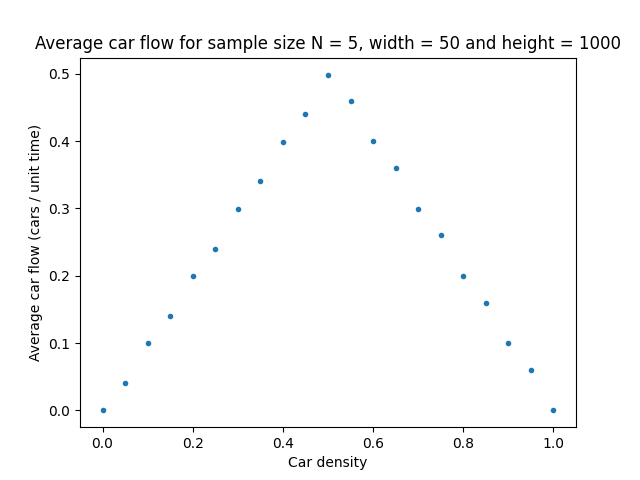
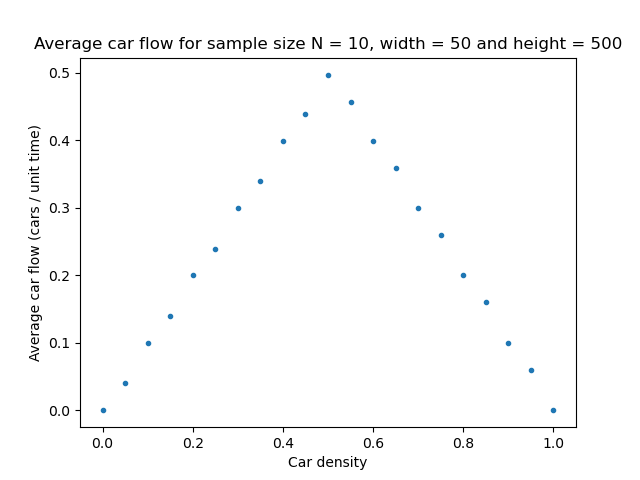
Exercise 6
Alleen uiteindelijke grafiek + docstrings

diff --git a/LAB4/carflow.py b/LAB4/carflow.py
@@ -4,8 +4,21 @@ import numpy as np
 import matplotlib.pyplot as plt
 
 
-def linear_interpolation(x1, x2, y1, y2, y):
-    return (y - y1) * (x2 - x1) / (y2 - y1) + x1
+def linear_interpolation(carflows, densities):
+        """Returns quadratric interpolated maximum given the x (densities) and y
+        (carflows) lists"""
+        max_index=carflows.index(max(carflows))
+
+        y1 = carflows[max_index-1]
+        y2 = carflows[max_index]
+        y3 = carflows[max_index+1]
+
+        x2 = densities[max_index]
+        x3 = densities[max_index+1]
+
+        difference= 0.5 * ( (y1-y3) / (y1-2*y2+y3))
+        x = x2+ (x3-x2)*difference
+        return x
 
 
 class CarFLow:
@@ -53,18 +66,18 @@ class CarFLow:
         self.probabilities = []
         self.times = []
 
-        max_index = real_carflows.index(max(real_carflows))
-        critical_density = real_densities[max_index]
-
-        for T in np.arange(10, 100, 10):
-            print(T)
-            correct = 0
-            for _ in range(5):
-
-                self.sweep_density(stepsize=0.1, N=5)
+        critical_density = linear_interpolation(real_carflows, real_densities)
+        print(critical_density)
+        for T in np.arange(3, 25, 1):
+            self.sim.height = T
+            correct=0
+            for _ in range(20):
+                self.sweep_density(0.05, 10)
+                guessed_density = linear_interpolation(self.all_carflows, self.densities)
+                print(T, guessed_density)
                 if (
                     critical_density - 0.05
-                    < max(self.densities)
+                    < guessed_density
                     < critical_density + 0.05
                 ):
                     correct += 1
@@ -73,6 +86,7 @@ class CarFLow:
             self.times.append(T)
 
     def plot_carflow(self):
+        plt.clf()
         plt.errorbar(
             self.densities, self.all_carflows, yerr=self.carflow_errors, fmt="."
         )
@@ -84,6 +98,7 @@ class CarFLow:
         plt.savefig("carflow.png")
 
     def plot_probabilities(self):
+        plt.clf()
         plt.plot(self.times, self.probabilities, ".")
         plt.xlabel("T")
         plt.ylabel("Probability correct")
@@ -91,8 +106,8 @@ class CarFLow:
 
 
 if __name__ == "__main__":
-    test = CarFLow(width=50, height=1000)
-    test.sweep_density(stepsize=0.05, N=5)
+    test = CarFLow(width=50, height=500)
+    test.sweep_density(stepsize=0.05, N=10)
     test.plot_carflow()
     test.sweep_time(test.all_carflows, test.densities)
     test.plot_probabilities()
